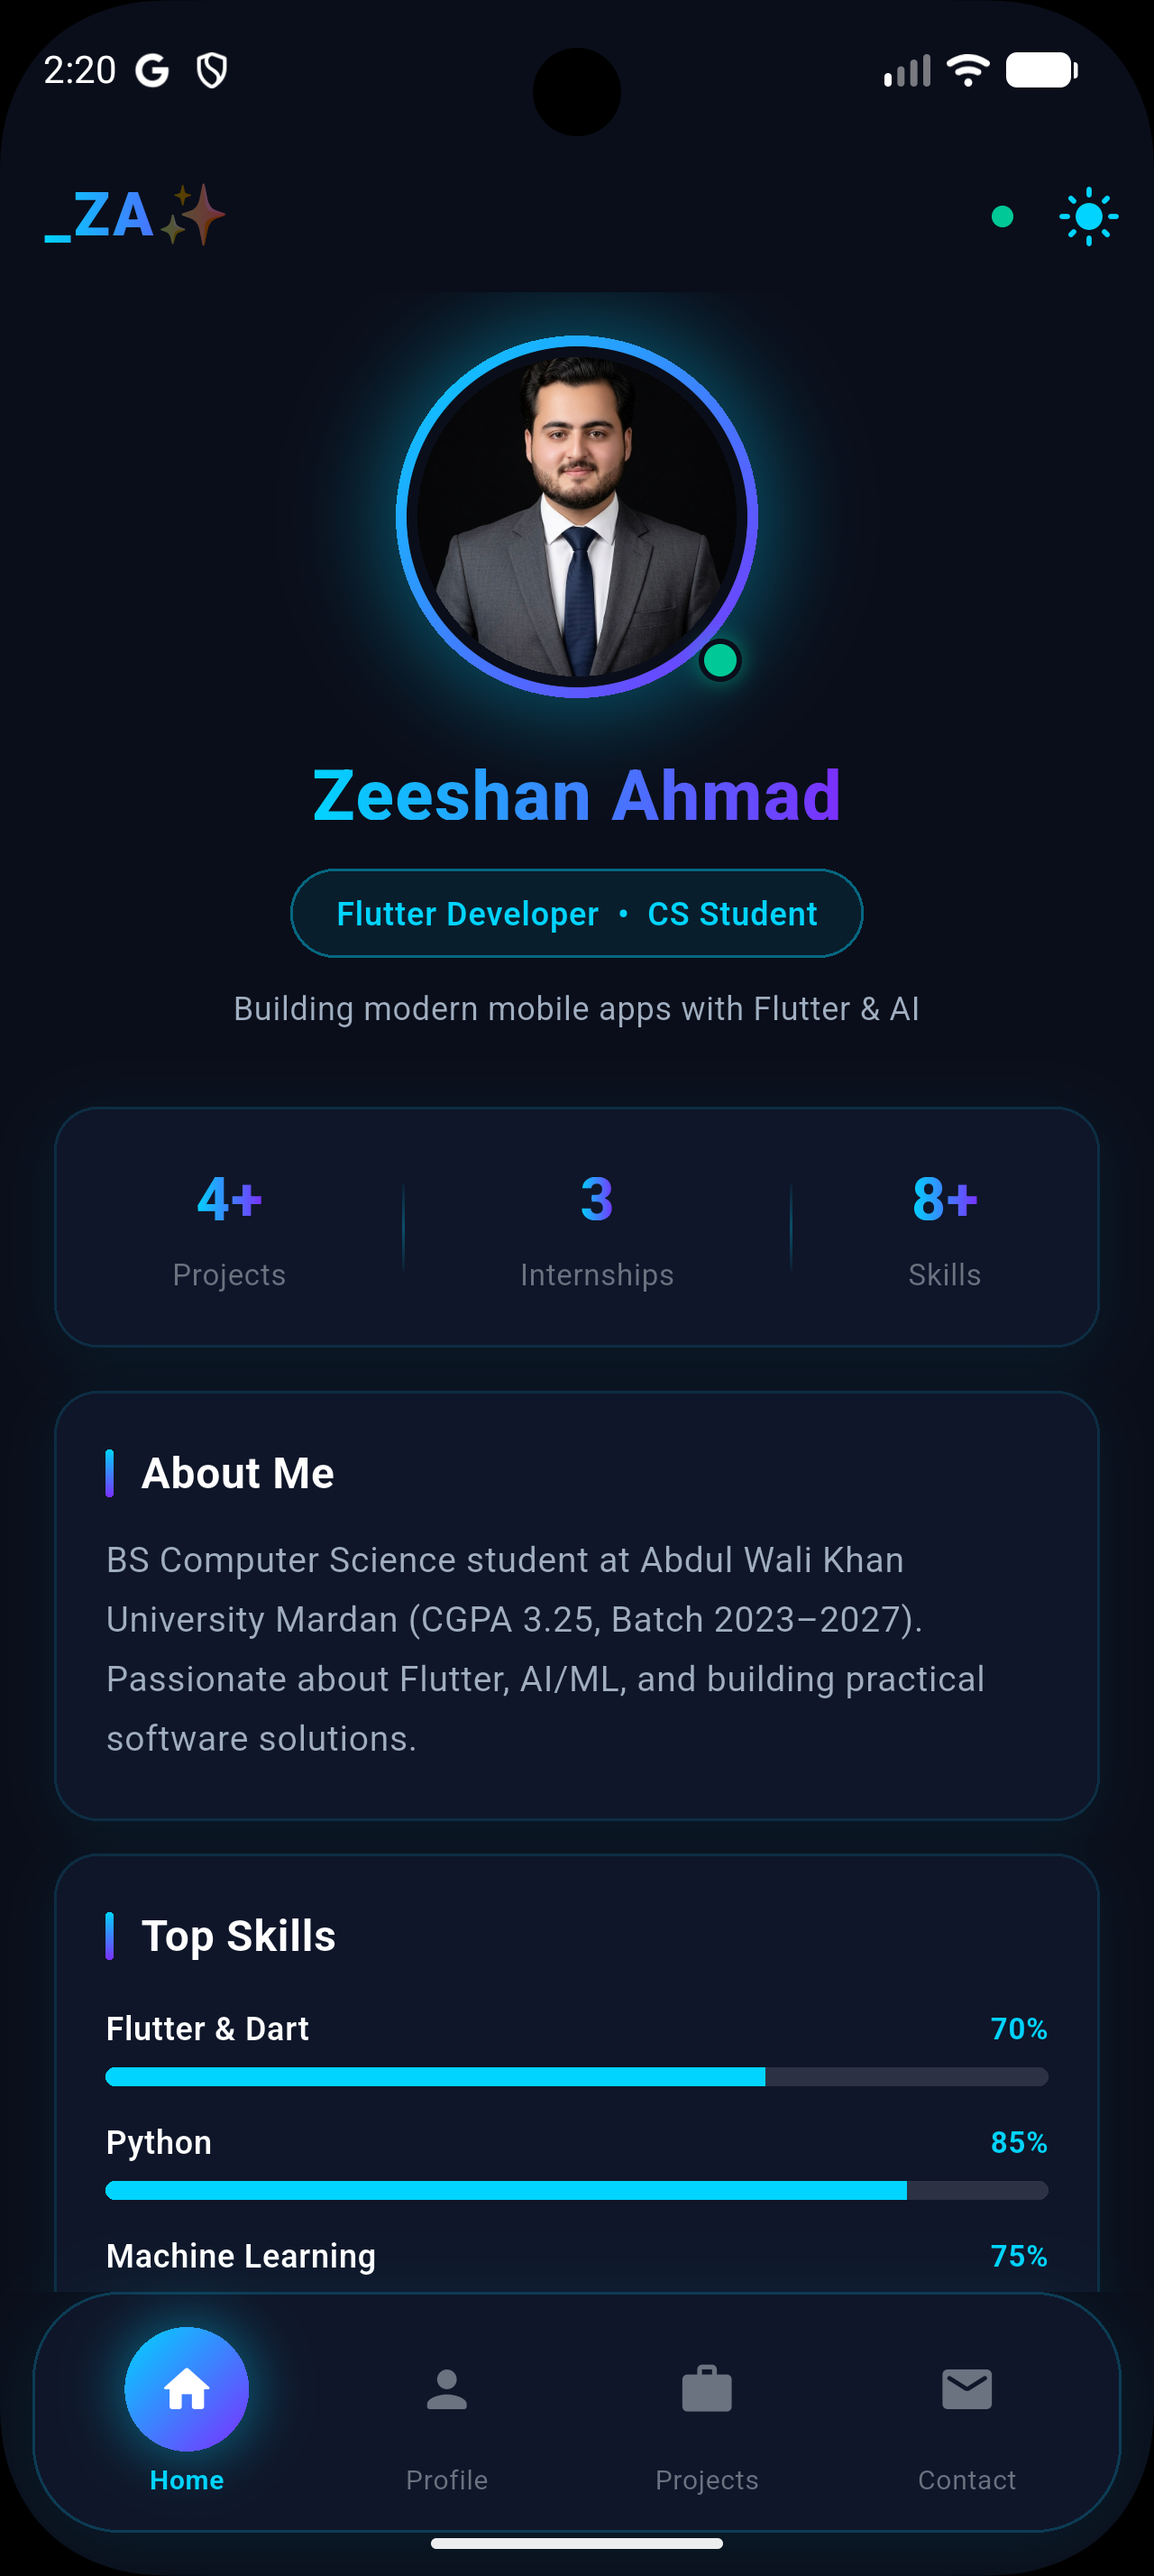
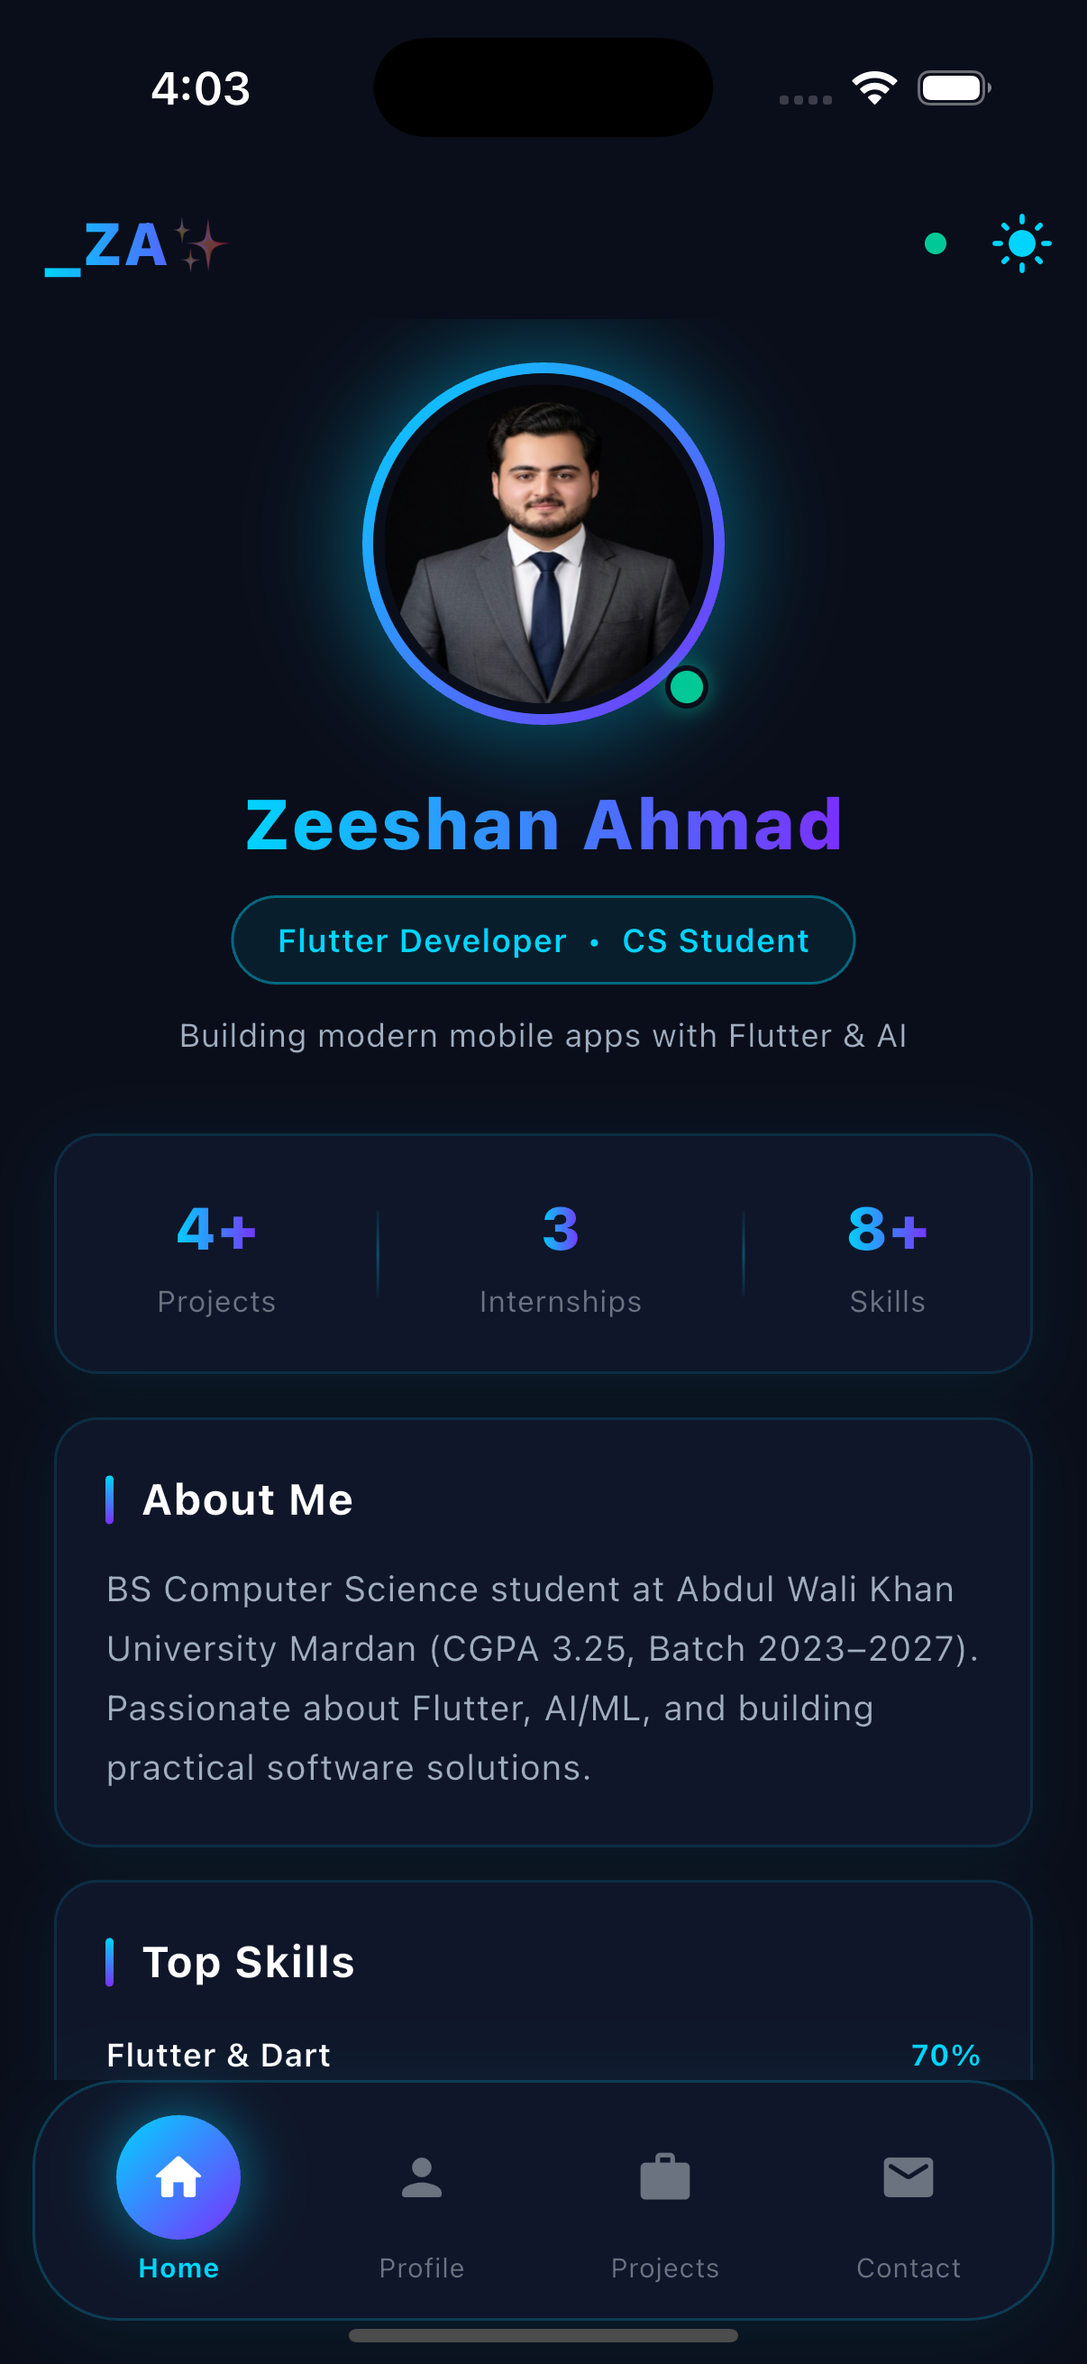
Week 8: Final submission - complete portfolio app with iOS testing, updated README and screenshots

diff --git a/README.md b/README.md
@@ -5,6 +5,8 @@ A cross-platform mobile portfolio application built with Flutter, showcasing my 
 **Built by:** Zeeshan Ahmad
 **Internship:** App Development Intern @ Codiora Software House
 
+> **Week 8 Final Project Submission** — Codiora Software House App Development Internship (Weeks 1–8 complete).
+
 ---
 
 ## 📱 Screenshots
@@ -35,6 +37,10 @@ A cross-platform mobile portfolio application built with Flutter, showcasing my 
 - **Input Validation** — email format, empty fields, and image size checks before any network call
 - **Graceful Error Handling** — every network call has a specific, human-readable failure message (no reachable server, timeout, bad response) with retry actions where relevant
 - **Loading States** — first-load progress indicators distinct from pull-to-refresh
+
+### Cross-Platform Verified
+- **Android** — tested on emulator and physical device throughout development
+- **iOS** — tested on physical iPhone 12 Pro and iOS Simulator (iPhone 16 Pro, iOS 18.6) via Xcode
 
 ### Accessibility
 - **Tooltips on icon-only controls** — password visibility toggle, back buttons, search-clear icon, and theme toggle all have accessible labels for screen readers
